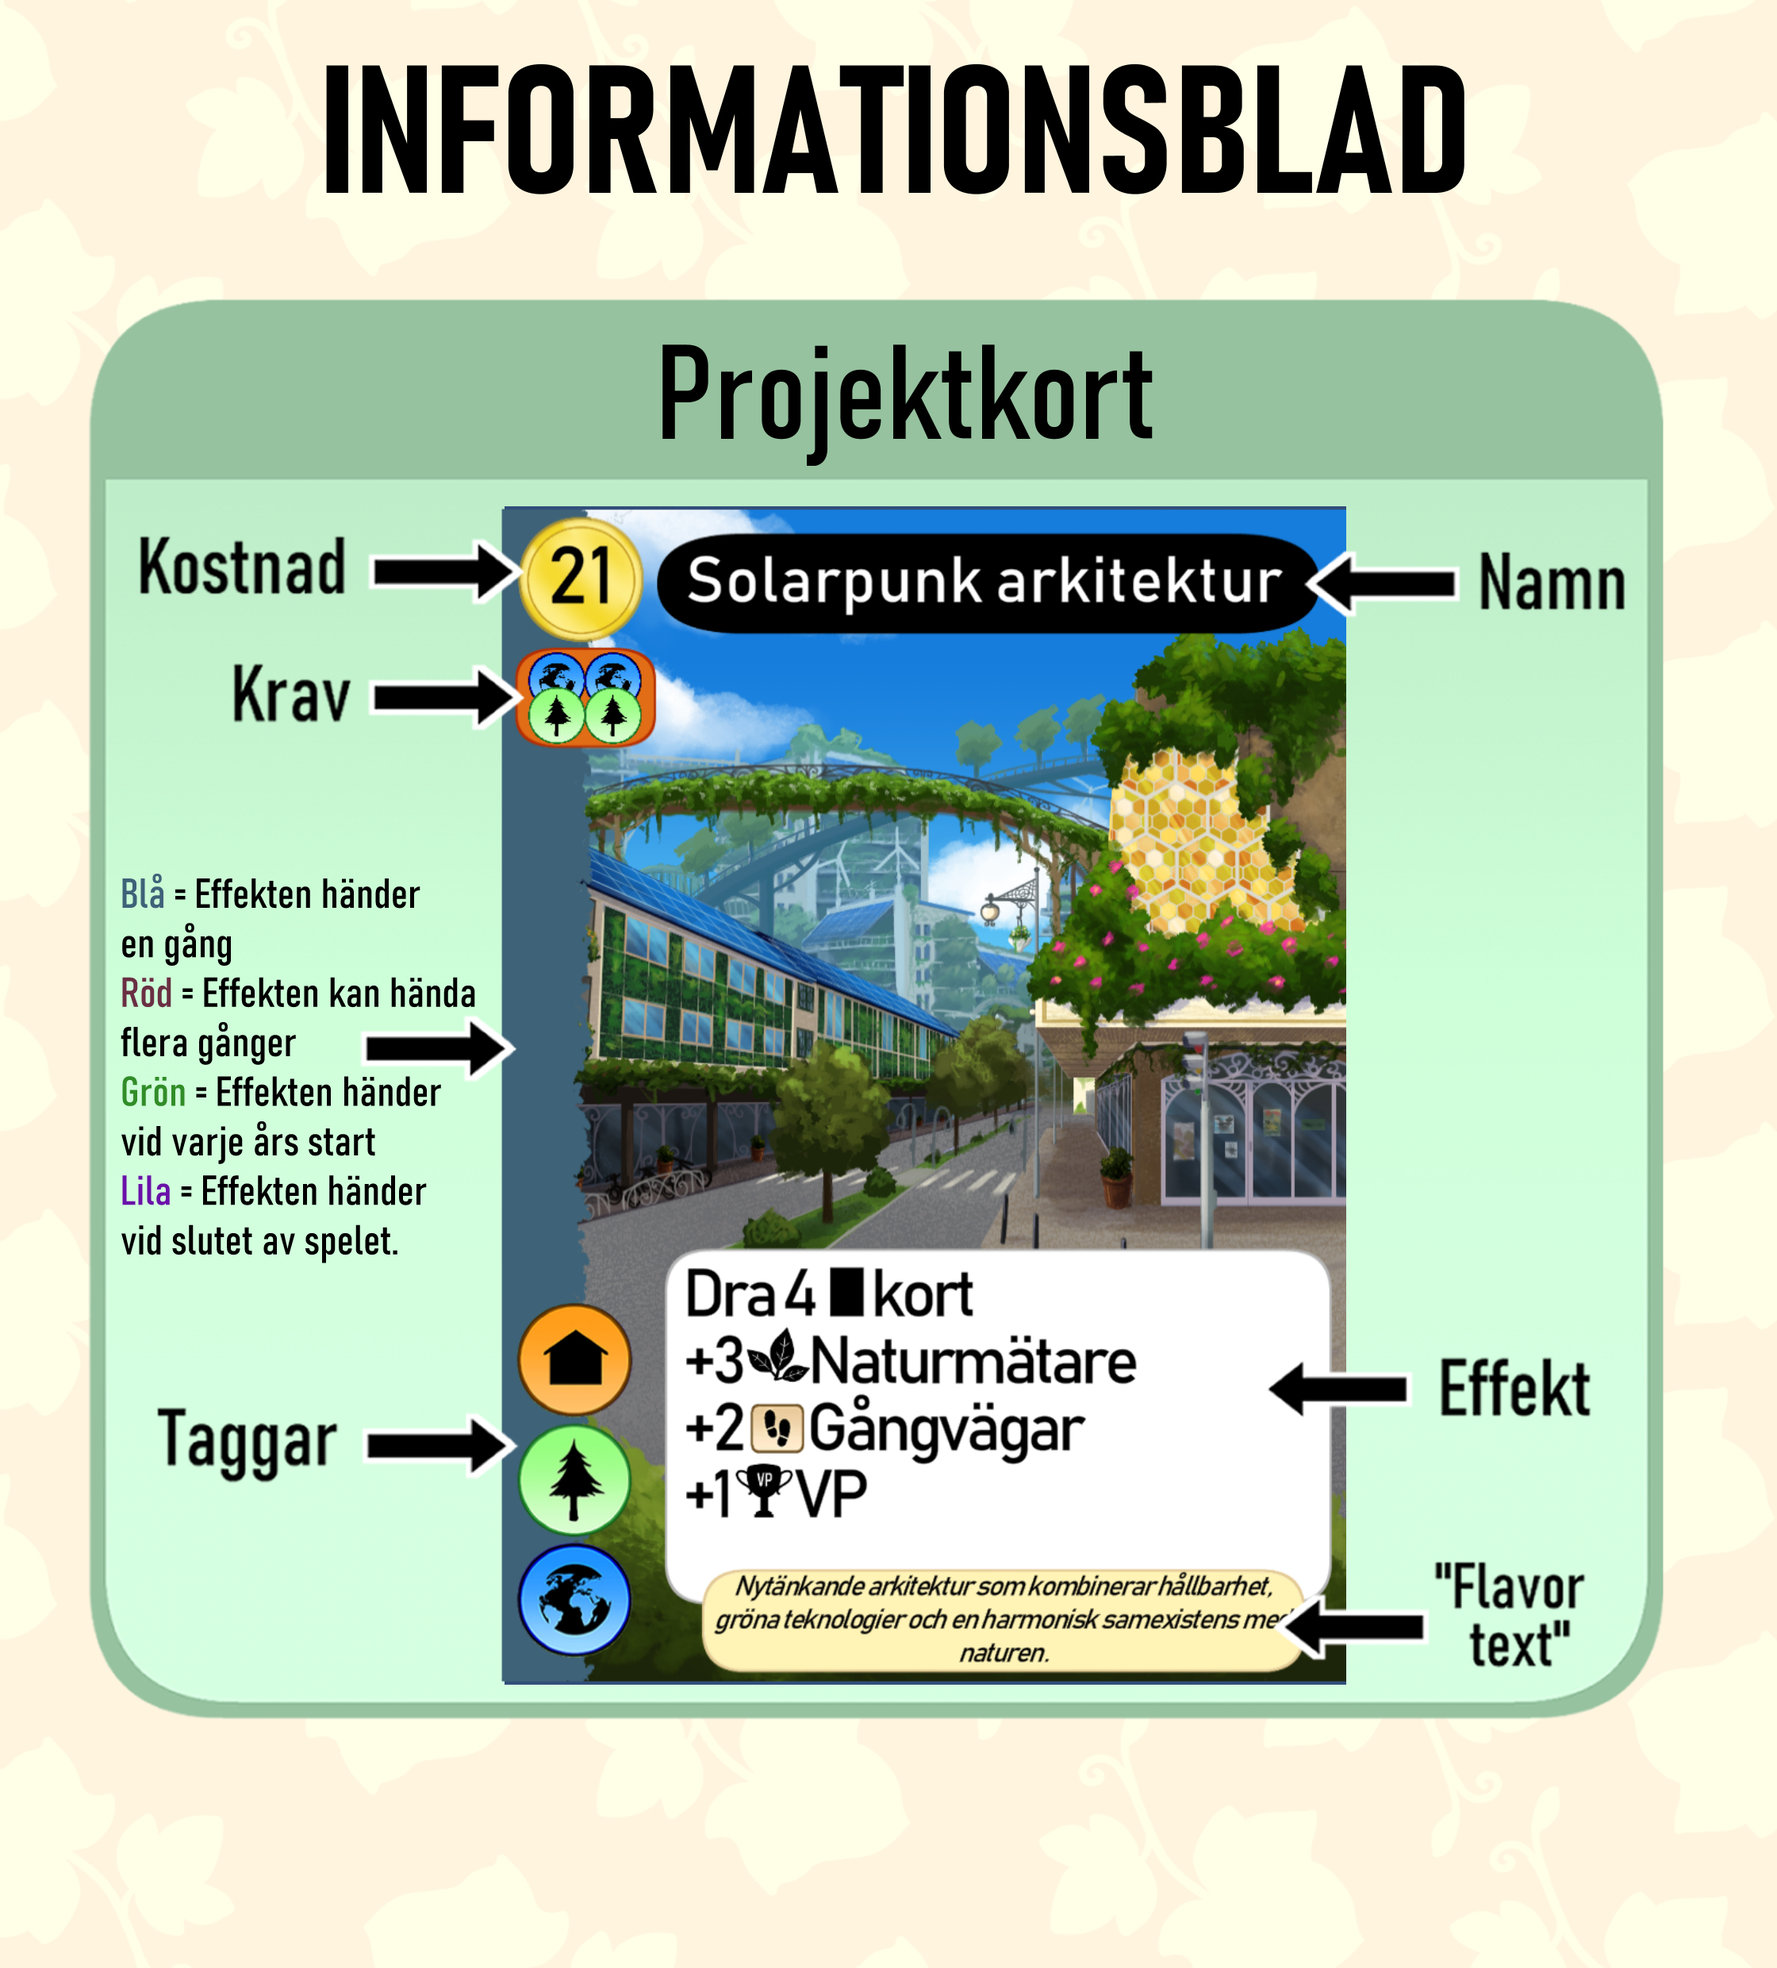
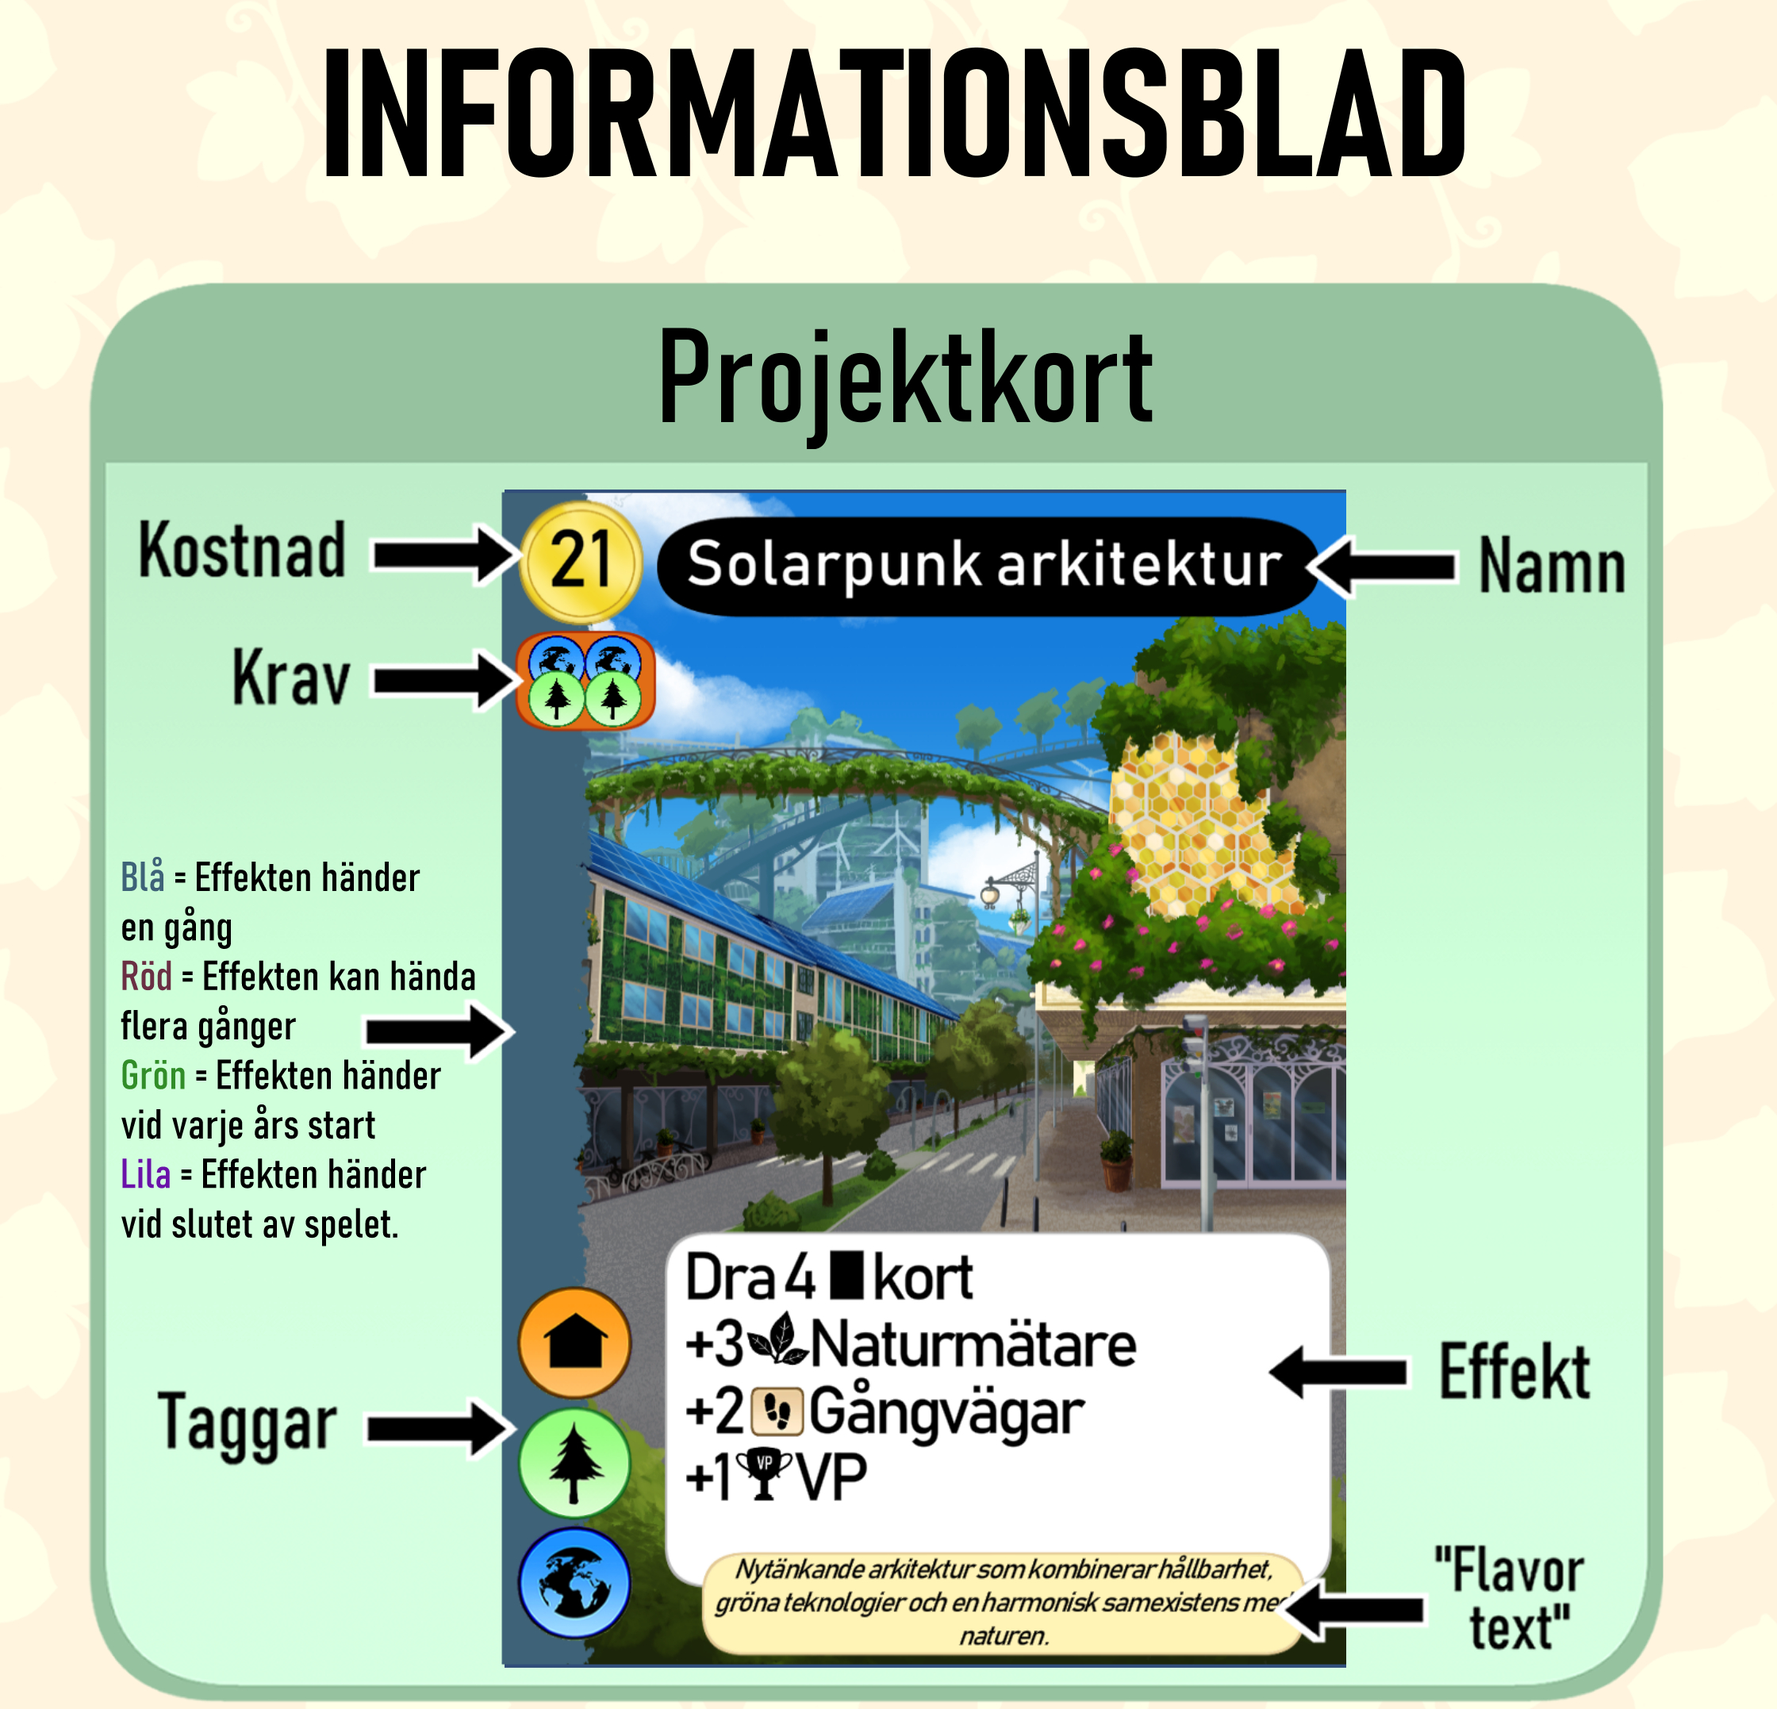
Mariestad Board Game Page Done

diff --git a/src/Subpages/MariestadClimateGame.tsx b/src/Subpages/MariestadClimateGame.tsx
@@ -109,6 +109,123 @@ The game's card based design allows it to highlight a variety of different conce
           />
         </PortfolioCoverImage>
       </PortfolioRowFrame>
+      <hr />
+      <PortfolioRowFrame reverse={true}>
+        <PortfolioRow //Design Process
+          name="Design Process"
+          imageLocation="src/Images/MariestadClimateGame/firstboard.png"
+          altText="The first version of the game board. Had an awareness track and an event pile, but a much shorter pollution track and no VP display (it was counted on player boards)"
+          imageCaption="The first printed version of the game board"
+          description="When I started designing the game we looked at what mechanics would fit and how to implement them. I took a lot of inspiration from one of my favorite board games, Terraforming Mars, but I wanted a shorter experience that's easier to learn, for players new(er) to board games.
+
+The first printed version of the board can be seen on the left. It had the pollution track, the traffic meter and green energy track we have today, but we also had an awareness meter and an event deck. The (blue) awareness track represented how aware and involved the inhabitants were regarding the climate issues. Players could raise awareness by playing certain cards and some cards needed a high awareness to be played or had other interactions with it. We ultimately chose to focus on other mechanics, but awareness or something could still be a good mechanic in an hypothetical expansion or in a similar game. For example an Awareness mechanic could work well with cards relating to protests and activism, something our game currently doesn't really portray.
+"
+        />
+      </PortfolioRowFrame>
+      <PortfolioRowFrame reverse={false}>
+        <PortfolioRow //Card Evolution
+          name="Card Evolution"
+          imageLocation="src/Images/MariestadClimateGame/Kort evolution.jpg"
+          altText="The evolution of card design in the game"
+          imageCaption="Evolution of a card's design and layout during development. "
+          description="While events and awareness were mechanics we tried and later removed, the core of the game has still remained similar to the start. The layout of the cards still has mostly the same parts, even if they have moved around a lot. The first cards were made by hand to test out game mechanics. When we started making cards digitally we tried different layouts and aesthetics. A lot of this work was done by Iris, as I was working on game mechanics but we worked together as layout and mechanics do inevitably intersect.
+
+One change we made from the first prototypes was removing effects inherent in tags. At the start, a few tags had effects built into them. When playing a card with a nature tag you would increase your nature track. When playing a card with a path tag you would build a path and so on. At the same time, other tags like global had no inherent effect and were just for synergies. This was unclear to players and also limited us as we wanted cards to have at most 3 tags each. Now all of the effects cards have are written out in the effect box and tags are just used for synergies and requirements. We have also done some other improvements like putting the card’s requirements next to its price and giving flavor texts their own box, so they don't take up space on the card effect box.
+"
+        />
+      </PortfolioRowFrame>
+      <PortfolioRowFrame reverse={true}>
+        <PortfolioRow //Inspiration and Research
+          name="Inspiration and Research"
+          imageLocation="src/Images/MariestadClimateGame/info_Sheet-Backside.png"
+          altText="Card explanation sheet that comes with the game"
+          description="When it comes to coming up with the actual cards themselves, that was pretty easy. It's not hard to find potential ideas to help solve/mitigate climate issues and then turning them into cards is fun. Back in October of 2022 we already had 98 cards and a large majority of them are still in the game today. Some cards have been removed, others renamed and many balance changes have been done. When it comes to inspiration for the cards I would like to thank the YouTube channel Undecided with Matt Ferrell and Wikipedia's Climate Change Mitigation page. They were great for finding inspiration and good jumping off points to start learning about related topics. The municipality of Mariestad has come with some suggestions for cards and feedback on my ideas, but it has also been an exchange of ideas both ways, with the game design process sending ideas to them too."
+          webpageLinks={[
+            {
+              url: "https://www.youtube.com/@UndecidedMF",
+              label: "Undecided with Matt Ferrell",
+            },
+            {
+              url: "https://en.wikipedia.org/wiki/Climate_change_mitigation",
+              label: "Climate Change Mitigation",
+            },
+          ]}
+        />
+      </PortfolioRowFrame>
+      <hr />
+      <PortfolioRowFrame reverse={false}>
+        <PortfolioRow //Fall 2023 Playtesting
+          name="Fall 2023 Playtesting"
+          imageLocation="src/Images/MariestadClimateGame/beforeButWithBonus.png"
+          altText="Game board at the start of playtesting"
+          imageCaption="Game board at the start of playtesting"
+          description="During the fall of 2023 I continually tested the game, primarily working on balance, clarity and replayability. Previous playtesting had largely been done in two ways; either me and Iris playing against each other with occasional guests joining in or at larger playtesting events at Mariestad or at some other climate related event/actor. The larger playtests generally involved people with limited experience with board games and sometimes with a limited time to play and finish a game. This meant that while we knew the game was pretty well balanced for two players we had little information on other player counts. I also wanted more players that could play multiple times and develop strategies and heuristics about the game. So during the fall of 2023, I spent a lot of time playtesting and iterating upon feedback from playtests. "
+        />
+      </PortfolioRowFrame>
+      <PortfolioRowFrame reverse={true}>
+        <PortfolioRow //Game Board Changes
+          name="Game Board Changes"
+          imageLocation="src/images/MariestadClimateGame/afterPlaytests.png"
+          altText="Game board after playtests."
+          imageCaption="Game board after playtests."
+          description="The biggest changes from the testing was to the board. The earliest version of the game board had no way of scaling for player count. Some of the first playtests showed that we had to scale the pollution track to keep the challenge of becoming climate neutral, scaling it by 12.5 steps for every player (2 players start at 25, 3 at 37 and 4 at 50). For a while this worked pretty well. The traffic was most of the time reduced to zero before 2030 and that felt a bit unrealistic but otherwise everything worked well.
+
+When I started playtesting with four experienced board gamers we started to see some interesting things however. The traffic meter often filled up halfway into the game. Now we had a bonus reward prepared for this, if a player builds public transport and the traffic meter is full for example, any excess produced will instead reward them with a positive opinion. This worked well in more casual groups, but it meant that for experienced groups, cards that built public transport effectively gave them positive opinion instead. And considering that if you have maxed out your positive opinion you instead got to draw a card, that created what we in playtesting referred to as a ‘draw machine’. Being able to pay 8 (or with one card, 4) money to draw a card as many times as you wanted removed the card scarcity from the game.
+
+It wasn't an intended strategy. And while it was very fun the first few times you get it to work, it gets stale and feels like a strange dominant strategy. 
+
+So what did I do to fix this? Well I didn't remove it, not fully. First off all I increased the amount of traffic steps from 8 to 12, and made it scale depending on the amount of players in the game. This meant that the traffic meter won't generally get filled halfway through most 4 player games and delays the formation of any draw engines. 
+"
+        />
+      </PortfolioRowFrame>
+      <PortfolioRowFrame reverse={false}>
+        <PortfolioRow //Smaller Changes
+          name="Smaller Changes"
+          imageLocation="src/images/MariestadClimateGame/Lokala sponsorer.png"
+          altText="Example of the card Lokala Sponsorer"
+          imageCaption="Example of the card Lokala Sponsorer/Local Sponsors. Every card doesn't reduce pollution directly, you also got make sure you have the money needed for your projects"
+          description="Most of the playtesting was done at AGES/Sugs, a board game club in Skövde. I especially want to thank Alexander Ros who attended most of the playtests and made some actor tier-lists (and later some art too). It was nice to see other peoples design thoughts on the balance of the game and how it shifted as I continued to adjust cards. The cards and actors aren't perfectly balanced, but many ‘broken’ combos are now gone and other cards that previously were bad were made stronger. A lot of cards have also been clarified and small elements that were confusing, have either been changed or removed. 
+
+          I also changed some other minor things like the election mechanic. Previously the player who won these got some VP and income. This did however create the problem that only winning mattered and players with low amounts of opinion saw little point in trying to compete. By changing it so the election rewards scale depending on the amount of players, players have a reason to fight for 2nd or 3rd place. Losing an election in 3 or 4 player games causes players to lose VP/Income, meaning that players should always be incentivized to compete in elections and try to manage the municipality's opinion of them.
+"
+        />
+      </PortfolioRowFrame>
+      <PortfolioRowFrame reverse={true}>
+        <PortfolioRow //Tested Ideas
+          name="Tested Ideas"
+          imageLocation="src/images/MariestadClimateGame/election.png"
+          altText="The Election board in the game, with scaling rewards based on placement vs the number of players"
+          description="If a player gets their opinion above the max of 9 they get to draw a card instead, which was part of creating the ‘draw machine’ described earlier. To try to fix this I experimented with trying to limit the reward. One idea was to limit it to once per year. But tracking and displaying that on the player board could be hard. Another idea I had to fix it and add some more player interactivity to the game would be to add what I was calling a ‘citizens idea’ row. This would be a row of around 3 project cards that would refresh each year. When a player got above 9 opinion on a track they would get to pick one of these cards. As there are only three, it would create an incentive to ‘race’ for the cards and limit players from drawing too many each year
+
+There could then also be ‘big business action’ to buy one of those cards for 8 or even 10 money. Drawing a card is almost never worth 10 money, but sometimes there are specific cards you really want and using it could also deny an opponent from getting it.
+
+Ultimately we found that adding it would add too much complexity for casual players and that with the other changes to game length and the size of the traffic meter it wasn't necessary. It could have been a possible variant for the game, but that would require more playtesting and possibly more components.
+"
+        />
+      </PortfolioRowFrame>
+      <hr />
+      <PortfolioRowFrame reverse={false}>
+        <PortfolioRow //The Search for a Card Making Tool
+          name="The Search for a Card Making Tool"
+          imageLocation="src/images/MariestadClimateGame/BiologiskaStudier.png"
+          altText="Example of the card Lokala Sponsorer"
+          description="We started the project with hand written paper prototypes to test the concept. After seeing that they worked well, Iris started experimenting with card layouts in Clip Studio Paint, which she then could add card stats into and save for printing. After a while I took over editing the cards in Clip Studio Paint. This took some time and meant that if I wanted to change something on all cards, even minor details, I had to open them individually and change it. That wasn't very efficient and I felt like there should be a better solution
+
+I had previous experience trying to use dedicated ‘card making tools’ like nanDeck without much success, but I still tried again. But both nanDeck and another alternative I found online; Cider had unclear UI’s and complex scripting languages. I did find a tool called Paperize, which I actually liked the UI and ease of use of, but it did not have support for Inline images in texts yet, so it didn't fit this task. So after nearly giving up I instead went, ‘well I guess I'll just make it myself’.
+"
+        />
+      </PortfolioRowFrame>
+      <PortfolioRowFrame reverse={true}>
+        <PortfolioRow //My Unity Card Maker
+          name="My Unity Card Maker"
+          imageLocation="src/images/MariestadClimateGame/ScripatbleObject.JPG"
+          altText="Scripatble Object for the card above"
+          description="So I made a Unity project for it. I tried to use Godot at first but it had no built-in way to automatically scale font size, and I found that it would be better to use an engine I knew well. And well, it was a success. I made a scriptable object for project cards and a script that puts the cards together from all of their components and then takes a screenshot. Now to edit cards I simply change the values of the scriptable object for the card, and click run. With that working I did the same thing for actor cards. 
+
+To handle the symbols in texts I use Unity's TextMeshPro style sheet, with a function I made that automatically adds them in when it sees specific words in the a string that it takes in the effect text in this case. Today I've learned how to use CSV files to import data from spreadsheets and use that to import data like this. In my current projects I use that to import data from spreadsheets to Unity, but I haven't yet updated this tool to use that.
+"
+        />
+      </PortfolioRowFrame>
     </>
   );
 }
